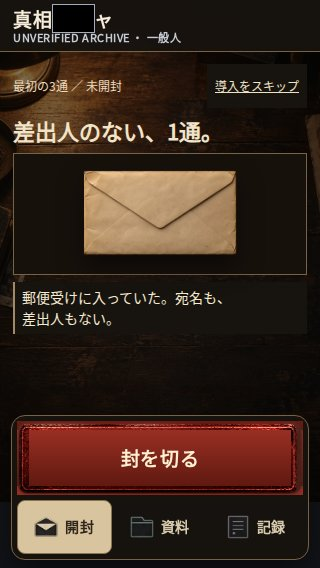
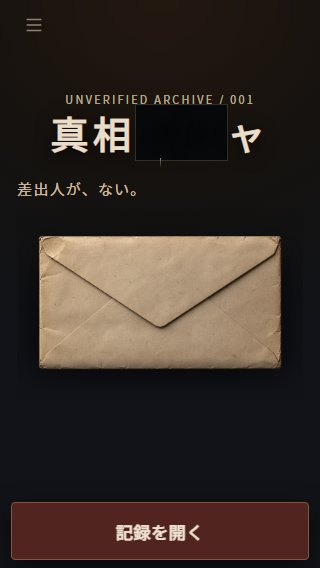
Polish opening title composition

diff --git a/assets/intro-story.css b/assets/intro-story.css
@@ -73,6 +73,12 @@ body.lite.intro-quiet #intro-case *,body.lite.intro-quiet #intro-case *::before,
 
 /* Sparse introduction: the envelope is an object, not an information panel. */
 body.intro-active #intro-case[data-step="0"] { padding-top:26px; gap:10px; }
+/* Give the title scene a deliberate stage above the fixed opening action.
+   Keep the envelope centered in the available reading area on tall and short phones. */
+body.intro-active #intro-case[data-step="0"] {
+  min-height:calc(100dvh - 162px - env(safe-area-inset-bottom,0px));
+  align-content:center;
+}
 body.intro-active #intro-case[data-step="0"] .intro-title-mast { gap:5px; }
 body.intro-active #intro-case[data-step="0"] > h1 { color:#c8b99f; font-size:clamp(15px,4.4vw,19px); font-weight:500; letter-spacing:.08em; }
 body.intro-active #intro-case[data-step="0"] figure { border:0; background:transparent; box-shadow:none; }
@@ -102,4 +108,4 @@ body.intro-active header.top #game-menu #menu-dot { display:none!important; }
 
 /* Make every new document heading clear of the fixed-height introductory menu. */
 body.intro-active #intro-case,body.intro-active #intro-case[data-step="0"]{padding-top:50px}
-@media(max-height:700px){body.intro-active #intro-case,body.intro-active #intro-case[data-step="0"]{padding-top:42px}body.intro-active #intro-case .intro-image{max-height:30dvh}body.intro-active #intro-case[data-step="0"] .intro-title-wordmark{font-size:38px}body.intro-active #intro-case[data-step="0"] .intro-title-mast i{height:10px}}
+@media(max-height:700px){body.intro-active #intro-case,body.intro-active #intro-case[data-step="0"]{padding-top:42px}body.intro-active #intro-case[data-step="0"]{min-height:calc(100dvh - 142px - env(safe-area-inset-bottom,0px))}body.intro-active #intro-case .intro-image{max-height:30dvh}body.intro-active #intro-case[data-step="0"] .intro-title-wordmark{font-size:38px}body.intro-active #intro-case[data-step="0"] .intro-title-mast i{height:10px}}

diff --git a/docs/INTRODUCTION.md b/docs/INTRODUCTION.md
@@ -13,7 +13,7 @@
 
 ## 体験
 
-1. 黒塗りのロゴと未確認アーカイブ番号が置かれたタイトル画面。封筒の「記録を開く」から物語へ入る。
+1. 黒塗りのロゴと未確認アーカイブ番号が置かれたタイトル画面。タイトルと封筒を操作領域上の縦余白に配置し、封筒の「記録を開く」から物語へ入る。
 2. 駅の写真を読む。「写真をもう一度見る」で人影が増える。比較ボタンで前後を自由に確認。
 3. 2通目の構内図。写真で増えた人物と同じ場所に赤い印。
 4. 3通目のメモ。黒塗りを押すと「こちらで、あなたを保護します。／第六文書課」が現れる。
@@ -45,7 +45,7 @@
 
 ## 検証
 
-`tests/intro.cjs`: 新規・既存ユーザー、320/390/430px、写真比較、3回分だけの開封、リロード復帰、黒塗り、スキップ・再閲覧、33断片の介入・36断片の面接、連打、画像デコード。既存のsmoke/photoreal/dossier-uiも併用。Firebaseは既存アダプターのスタブ検証で、実ユーザーの保存には書き込まない。実機Safari・導入離脱率の実測は未検証。
+`tests/intro.cjs`: 新規・既存ユーザー、320/390/430pxのタイトルと封筒の視覚中心・CTA分離、写真比較、3回分だけの開封、リロード復帰、黒塗り、スキップ・再閲覧、33断片の介入・36断片の面接、連打、画像デコード。既存のsmoke/photoreal/dossier-uiも併用。Firebaseは既存アダプターのスタブ検証で、実ユーザーの保存には書き込まない。実機Safari・導入離脱率の実測は未検証。
 
 画面: `docs/qa-intro/`。代表場面は `overview.jpg`。
 
